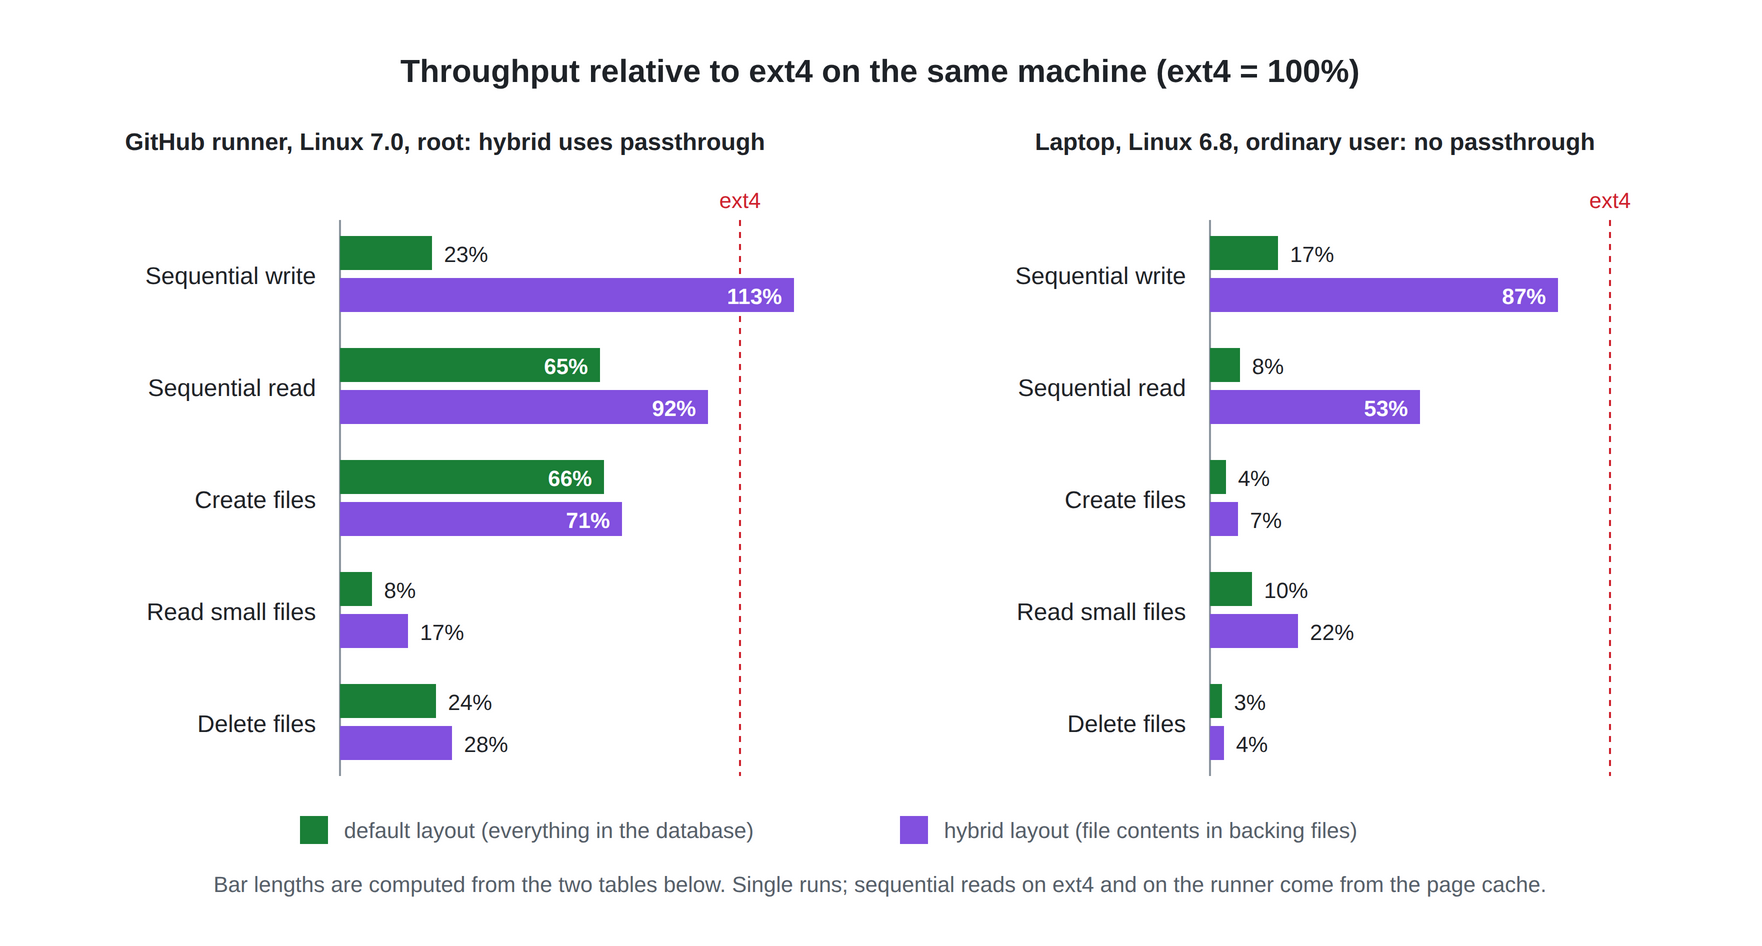
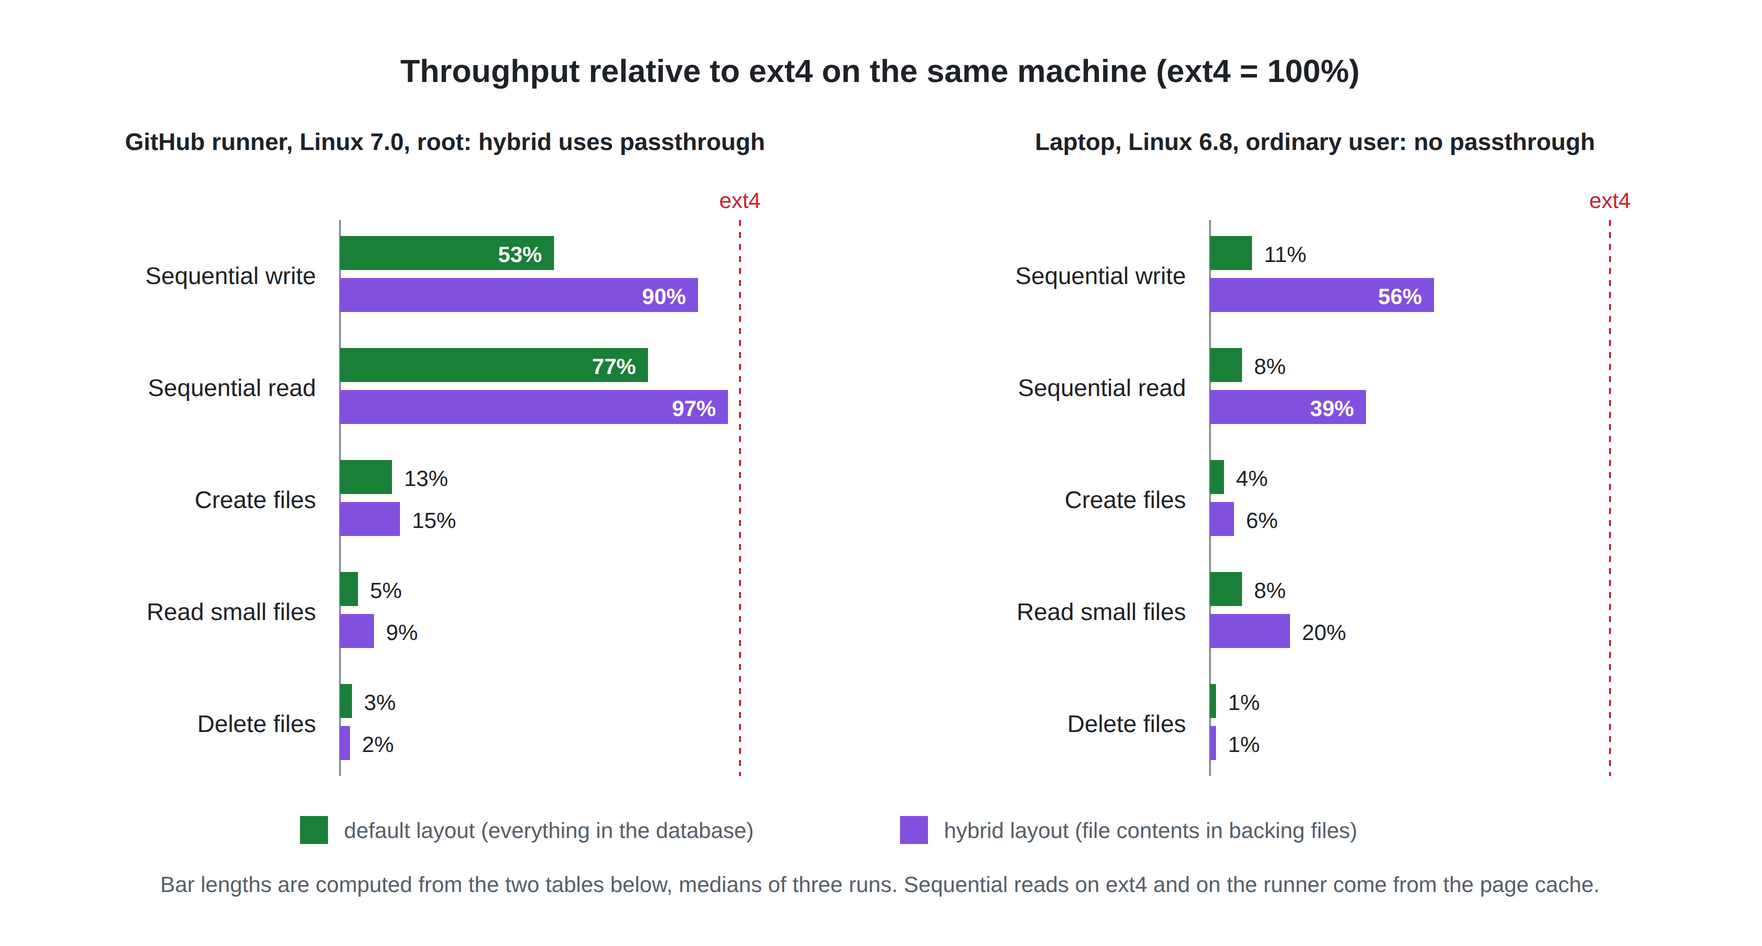
README: refresh the benchmark from medians of three runs, add a hybrid versus default comparison
The tables were from single runs made before later changes, and no longer
matched what CI prints. They now hold medians of three runs, the chart is
regenerated from them, and the summary states the ratios those numbers give:
with passthrough the hybrid layout reaches 90% of ext4 on sequential writes
and 97% on reads; metadata is 6.6 to 70 times slower than ext4 in both
layouts.

diff --git a/README.md b/README.md
@@ -34,7 +34,7 @@ What the database gives you here (the last column says what changes in the [hybr
 | **Consistent live backups** | `sqlite3 fs.db ".backup snap.db"` or `pg_dump` takes a snapshot of a mounted file system at one point in time. | The snapshot holds metadata only. Back up the data directory with it, unmounted or from a storage snapshot of both. |
 | **Replication and failover** | On PostgreSQL the file system is as available as the database. Promote a replica, mount it there. (This comes from PostgreSQL; this repository does not test failover.) | Replication covers metadata only. File contents need their own. |
 
-What it does **not** give you is speed on metadata. Creating, listing and deleting files is slower than on a kernel file system in both layouts. Large-file throughput is slow in the default layout and matches ext4 in the hybrid one. See [Performance](#performance).
+What it does **not** give you is speed on metadata. Creating, listing and deleting files is slower than on a kernel file system in both layouts. Large-file throughput is slow in the default layout and comes close to ext4 in the hybrid one with kernel passthrough. See [Performance](#performance).
 
 ## Install
 
@@ -79,7 +79,7 @@ The layout is chosen at `mkfs` and recorded in the database.
 | A write and its metadata | Atomic together | Not atomic. A write is as crash-safe as the disk's file system makes it, like any ordinary file |
 | Database backup or replication covers | Everything | Metadata only. The data directory needs its own |
 | SQL over file contents | Yes | No. Sizes and names, yes |
-| Large-file throughput | 4 to 13 times slower than ext4 | Same as ext4 with kernel passthrough, up to about 2 times slower without |
+| Large-file throughput | 1.9 to 13 times slower than ext4 | 90% to 97% of ext4 with kernel passthrough, 1.8 to 2.6 times slower without |
 
 In the hybrid layout a backing file is named after its inode number, so `rename` and `link` never touch it. The backing file is the authority on a file's size and modification time. The copies in the `inodes` table, which queries read, are refreshed about once a second, on `fsync` and at unmount. If tuplefs dies, the next mount corrects them from the files on disk and removes backing files whose inode is gone.
 
@@ -189,45 +189,59 @@ The file system itself is about 2,700 lines of Go. Journaling, recovery, locking
 
 ## Performance
 
-Measured with [bench/bench.sh](bench/bench.sh), default settings, `-sync fsync`, SQLite. Each table compares against ext4 on the same machine and disk.
+Measured with [bench/bench.sh](bench/bench.sh), default settings, `-sync fsync`, SQLite. Every number is the median of three runs, and each table compares against ext4 on the same machine and disk. Nothing waits for the disk except the two workloads that say fsync.
 
 ![Bar chart of throughput as a percentage of ext4 on the same machine, for the default and hybrid layouts, on the CI runner with passthrough and on the laptop without. The numbers are in the two tables below.](docs/diagrams/benchmark.png)
 
-**GitHub-hosted runner, Linux 7.0, mounted by root, so the hybrid layout uses kernel passthrough.** This is the [benchmark job](.github/workflows/ci.yml) in CI.
+**GitHub-hosted runner, Linux 7.0, mounted by root, so the hybrid layout uses kernel passthrough.** This is the [benchmark job](.github/workflows/ci.yml) in CI, which prints these numbers on every push.
 
 | Workload | ext4 | In the database | Hybrid, passthrough |
 |---|---:|---:|---:|
-| Write 256 MiB sequentially, then fsync | 181 MiB/s | 42 MiB/s | 205 MiB/s |
-| Read 256 MiB sequentially | 9,797 MiB/s | 6,345 MiB/s | 9,027 MiB/s |
-| Overwrite 2,000 × 4 KiB, then fsync | 48,294 /s | 4,503 /s | 5,478 /s |
-| Create 5,000 files of 4 KiB | 1,044 /s | 687 /s | 737 /s |
-| `ls -l` of 5,000 files | 132,119 /s | 9,073 /s | 8,561 /s |
-| Read 5,000 files | 74,679 /s | 6,093 /s | 12,679 /s |
-| Delete 5,000 files | 4,725 /s | 1,135 /s | 1,331 /s |
+| Write 256 MiB sequentially, then fsync | 182 MiB/s | 97 MiB/s | 163 MiB/s |
+| Read 256 MiB sequentially | 7,346 MiB/s | 5,645 MiB/s | 7,125 MiB/s |
+| Overwrite 2,000 × 4 KiB, then fsync | 58,315 /s | 4,515 /s | 13,584 /s |
+| Create 5,000 files of 4 KiB | 9,767 /s | 1,262 /s | 1,485 /s |
+| `ls -l` of 5,000 files | 155,360 /s | 7,684 /s | 7,040 /s |
+| Read 5,000 files | 120,725 /s | 5,686 /s | 10,312 /s |
+| Delete 5,000 files | 105,288 /s | 2,971 /s | 2,501 /s |
 
 **Laptop (Intel i7-1355U, NVMe), Linux 6.8, mounted by an ordinary user, which rules out passthrough.**
 
 | Workload | ext4 | In the database | Hybrid, no passthrough |
 |---|---:|---:|---:|
-| Write 256 MiB sequentially, then fsync | 495 MiB/s | 84 MiB/s | 430 MiB/s |
-| Read 256 MiB sequentially | 4,404 MiB/s | 335 MiB/s | 2,318 MiB/s |
-| Overwrite 2,000 × 4 KiB, then fsync | 140,772 /s | 2,640 /s | 11,283 /s |
-| Create 5,000 files of 4 KiB | 18,220 /s | 738 /s | 1,318 /s |
-| `ls -l` of 5,000 files | 106,380 /s | 9,760 /s | 8,961 /s |
-| Read 5,000 files | 48,770 /s | 5,065 /s | 10,682 /s |
-| Delete 5,000 files | 55,738 /s | 1,540 /s | 1,981 /s |
+| Write 256 MiB sequentially, then fsync | 844 MiB/s | 89 MiB/s | 471 MiB/s |
+| Read 256 MiB sequentially | 5,669 MiB/s | 451 MiB/s | 2,223 MiB/s |
+| Overwrite 2,000 × 4 KiB, then fsync | 92,278 /s | 3,033 /s | 10,966 /s |
+| Create 5,000 files of 4 KiB | 19,964 /s | 723 /s | 1,160 /s |
+| `ls -l` of 5,000 files | 185,154 /s | 6,812 /s | 8,473 /s |
+| Read 5,000 files | 49,309 /s | 3,844 /s | 9,782 /s |
+| Delete 5,000 files | 112,213 /s | 1,614 /s | 1,638 /s |
 
-Sequential reads on ext4, and on the runner, are served from the page cache. Single runs; expect noise of tens of percent. Runners also differ: a later run of the same job landed on a faster disk and measured 538 MiB/s for the ext4 sequential write against 527 MiB/s for the hybrid layout. PostgreSQL as the backend is slower than SQLite on one machine, because every statement also crosses a socket: an earlier run of this benchmark in the default layout reached 50 MiB/s for the sequential write and 198 file creates per second.
+Sequential reads on ext4, and on the runner, are served from the page cache. Runners differ from one job to the next, so compare the columns of one table, not numbers across tables. PostgreSQL as the backend is slower than SQLite on one machine, because every statement also crosses a socket: an earlier single run of this benchmark in the default layout reached 50 MiB/s for the sequential write and 198 file creates per second.
+
+### Is the hybrid layout faster?
+
+For anything that moves file data, yes. For pure metadata it is about the same, and deletes can be a little slower, because each one also removes a backing file. This is the hybrid layout's rate divided by the default layout's, from the tables above (above 1× means hybrid is faster):
+
+| Workload | Runner, with passthrough | Laptop, without |
+|---|---:|---:|
+| Write 256 MiB sequentially, then fsync | 1.7× | 5.3× |
+| Read 256 MiB sequentially | 1.3× | 4.9× |
+| Overwrite 2,000 × 4 KiB, then fsync | 3.0× | 3.6× |
+| Create 5,000 files of 4 KiB | 1.2× | 1.6× |
+| `ls -l` of 5,000 files | 0.9× | 1.2× |
+| Read 5,000 files | 1.8× | 2.5× |
+| Delete 5,000 files | 0.8× | 1.0× |
 
 What the numbers say:
 
-- **Large files.** With passthrough, the hybrid layout reads and writes large files as fast as ext4, because it is ext4 doing the I/O. Without passthrough it is within about a factor of two. The default layout is 4 to 13 times slower, since every write is a SQL transaction.
-- **Metadata.** Creating, listing and deleting files is slower than ext4 in both layouts: from 1.4 times (creates on the runner, where ext4 itself is slow) to 36 times (deletes on the laptop). Each request crosses from the kernel to tuplefs and back, which on the laptop takes about 25 microseconds before any SQL runs, where ext4 needs a few microseconds in total. No database tuning removes that crossing.
-- **Small overwrites followed by fsync** stay slow in both layouts: fsync also commits the database synchronously.
+- **Large files.** With passthrough, the hybrid layout reaches 90% of ext4 on sequential writes and 97% on reads: it is ext4 doing the I/O, plus one database commit at fsync. Without passthrough it is 1.8 to 2.6 times slower than ext4. The default layout is 1.9 to 13 times slower, leaving aside reads served from the page cache, since every write is a SQL transaction.
+- **Metadata.** Creating, listing and deleting files is 6.6 to 70 times slower than ext4, in both layouts. Each request crosses from the kernel to tuplefs and back, which on the laptop takes about 25 microseconds before any SQL runs, where ext4 needs a few microseconds in total. No database tuning removes that crossing.
+- **Small overwrites followed by fsync** are 4.3 to 30 times slower than ext4: fsync also commits the database synchronously.
 
 This project does not reproduce the claim that a DBMS-backed file system beats the Linux file system. The DBOS paper measured a prototype on VoltDB, a multi-node main-memory DBMS, with in-memory operations only, and calls its own ext4 comparison "apples-to-oranges": with 40 threads its writes matched or beat ext4, while ext4 reads were considerably faster. tuplefs is a different design (FUSE, a disk-based database, one machine), and the numbers above are what that design costs.
 
-Use the default layout where transactional, queryable, replicated contents matter more than throughput. Use the hybrid layout when you want transactional metadata and SQL over the tree, with ordinary disk speed for the data.
+Use the default layout where transactional, queryable, replicated contents matter more than throughput. Use the hybrid layout when you want transactional metadata and SQL over the tree, with close to ordinary disk speed for the data.
 
 ## Testing
 
